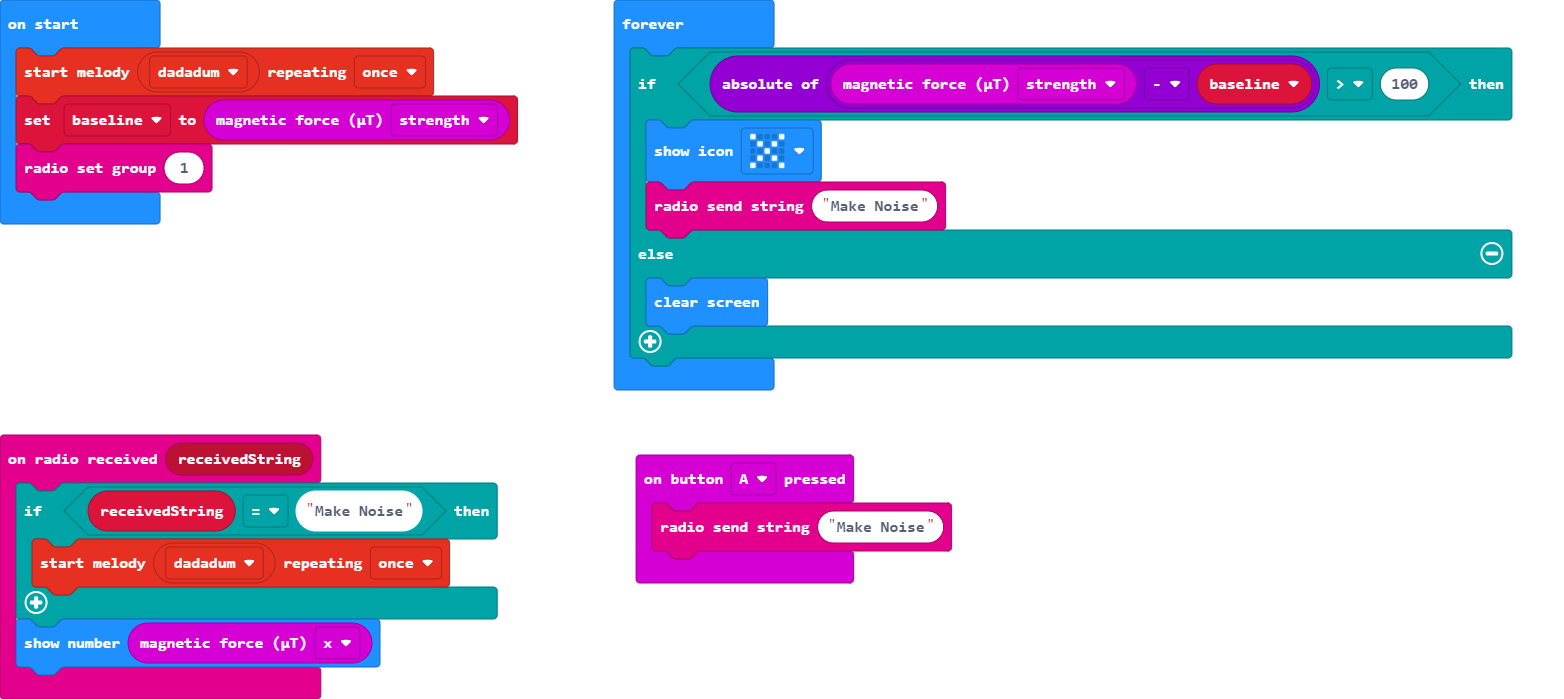
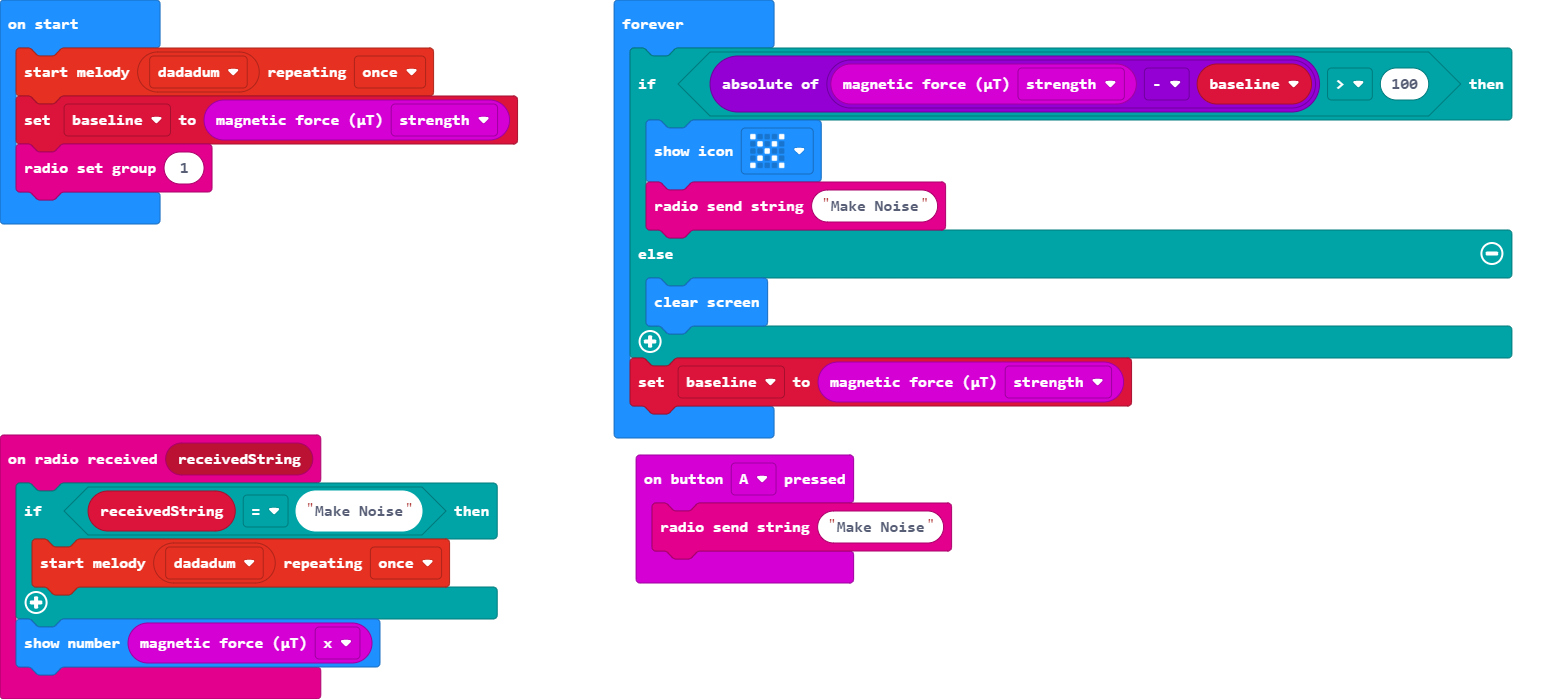
Now it doesn't loop forever.  It resets the base value often.

Changed region(s): [[0.3683, 0.5107, 0.7366, 0.6309]]

diff --git a/main.ts b/main.ts
@@ -17,4 +17,5 @@ basic.forever(function () {
     } else {
         basic.clearScreen()
     }
+    baseline = input.magneticForce(Dimension.Strength)
 })
